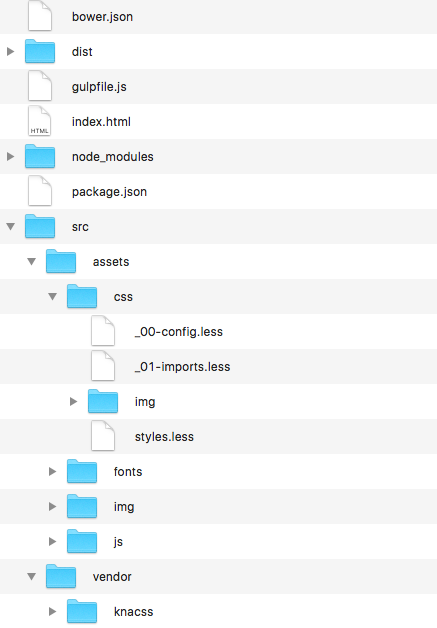
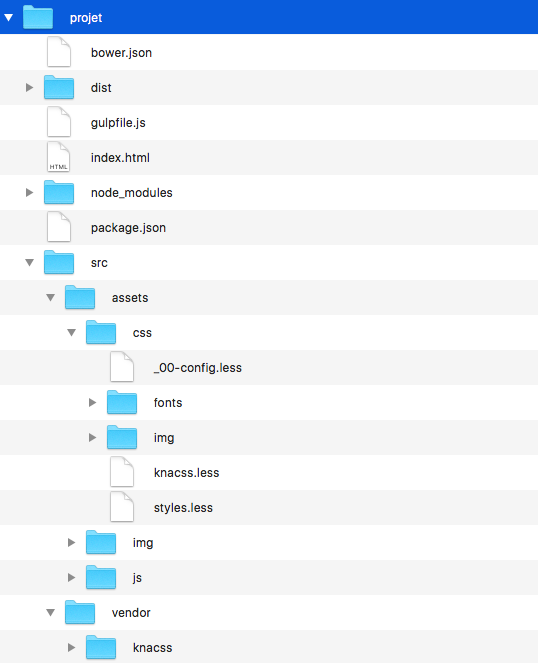
nouveau visuel

Changed region(s): [[0.0, 0.0, 1.0, 0.9984], [0.0, 0.3328, 0.0297, 0.3631], [0.0, 0.242, 0.0297, 0.2723]]

diff --git a/README.md b/README.md
@@ -38,12 +38,12 @@ Voici comment est architecturé **alstart** par défaut :
 ## Usage avec KNACSS :
 - Créez ou modifiez le fichier `_00-config.less` dans votre dossier `src/assets/css/`
 - N'utilisez **pas** `src/vendor/knacss/less/_00-config.less`, car il sera écrasé à chaque misé à jour de KNACSS
-- Choisissez les fichiers KNACSS à importer au sein du fichier `_01-imports.less`
-- Votre fichier de travail est `styles.less` et commencera par : `@import "_01-imports";`, puis suivront vos styles perso.
+- Choisissez les fichiers KNACSS à importer au sein du fichier `knacss.less`
+- Votre fichier de travail est `styles.less` et commencera par : `@import "knacss";`, puis suivront vos styles perso.
 
 
 ## Crédits :
 
-Projet lancé par (https://github.com/edenpulse)[Matthieu Bousendorfer], et tenu à jour par Alsacréations.
+Projet lancé par [https://github.com/edenpulse](Matthieu Bousendorfer), et tenu à jour par Alsacréations.
 
 GitIgnore Mac OSX Crap : https://github.com/github/gitignore/blob/master/Global/OSX.gitignore
